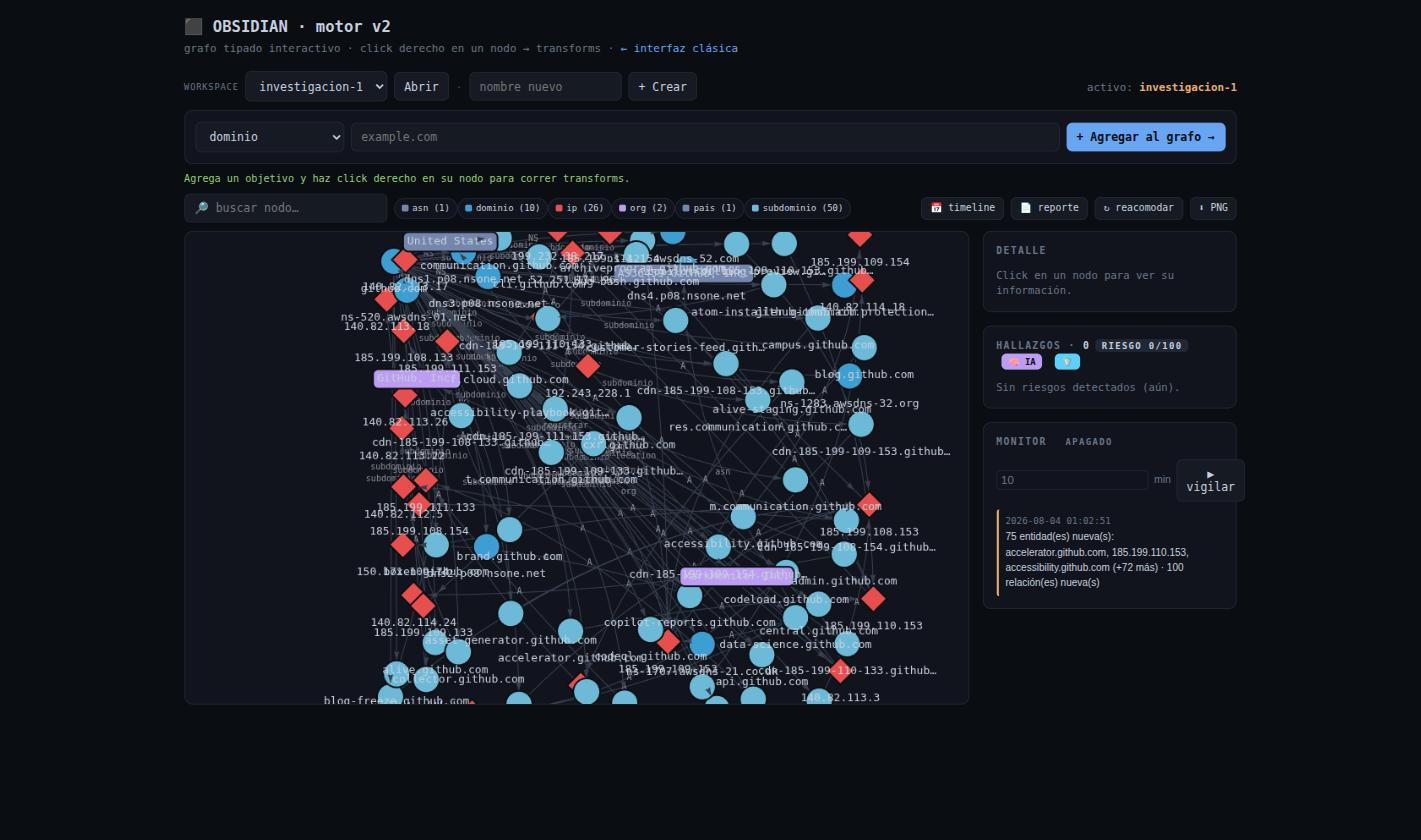
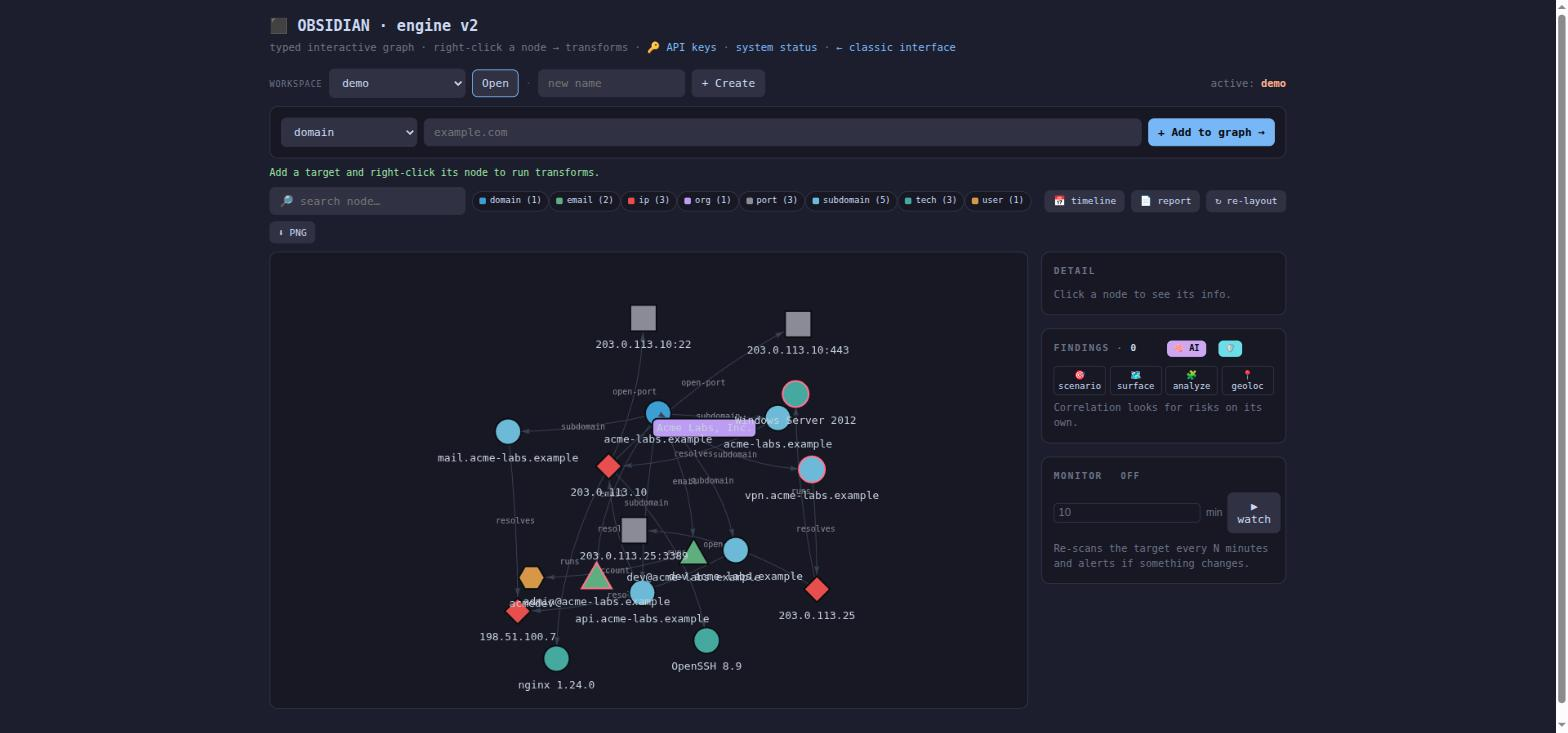
English: fix remaining UI strings in v2 graph; refresh screenshots to English version

diff --git a/web/v2.html b/web/v2.html
@@ -157,7 +157,7 @@
       </div>
       <div class="card">
         <h2>Findings · <span id="nHall">0</span><span class="score" id="scoreBadge"></span>
-          <button id="btnIA" class="btnia">🧠 IA</button>
+          <button id="btnIA" class="btnia">🧠 AI</button>
           <button id="btnEscudo" class="btnia" style="background:var(--cyan)">🛡</button></h2>
         <div id="iaResumen"></div>
         <div class="iabtns">
@@ -171,7 +171,7 @@
       <div class="card">
         <h2>Monitor <span id="monEstado" class="score">off</span></h2>
         <div class="monctl">
-          <input id="monIntervalo" type="number" min="1" value="10" title="minutos"> min
+          <input id="monIntervalo" type="number" min="1" value="10" title="minutes"> min
           <button id="btnMonitor">▶ watch</button>
         </div>
         <div id="monInfo" class="vacio">Re-scans the target every N minutes and alerts if something changes.</div>
@@ -318,7 +318,7 @@ async function cargarModulos(type, value, cont){
   lista.forEach(t=>{
     const b=el('button','modbtn');
     b.innerHTML=esc(t.name)+(t.requires_key?' <span class="key">⚿</span>':'');
-    b.title=(t.description||'')+(t.requires_key?' · necesita API key (🔑)':''); b.onclick=()=>correr(type, value, t.name, t.requires_key);
+    b.title=(t.description||'')+(t.requires_key?' · needs an API key':''); b.onclick=()=>correr(type, value, t.name, t.requires_key);
     grid.appendChild(b);
   });
   cont.appendChild(grid);
@@ -419,7 +419,7 @@ async function analizarIA(){
   try{ const d=await(await fetch('/api/v2/findings/ia',{method:'POST'})).json();
     out.innerHTML='<div class="iaresumen">'+(d.resumen||d.error||'')+'</div>'; }
   catch(e){ out.textContent='Error: '+e.message; }
-  btn.disabled=false; btn.textContent='🧠 IA';
+  btn.disabled=false; btn.textContent='🧠 AI';
 }
 async function segundoEscudo(){
   const btn=$('#btnEscudo'),out=$('#iaResumen'); btn.disabled=true; btn.textContent='…';
@@ -440,8 +440,8 @@ async function cargarWorkspaces(){
 }
 async function abrirWs(){ const n=$('#wsSel').value; if(!n)return;
   await fetch('/api/v2/workspaces/open',{method:'POST',headers:{'Content-Type':'application/json'},body:JSON.stringify({name:n})});
-  setStatus('workspace abierto: '+n); await cargarWorkspaces(); await pintarGrafo(); }
-async function crearWs(){ const n=$('#wsNuevo').value.trim(); if(!n){setStatus('escribe un name','err');return;}
+  setStatus('workspace opened: '+n); await cargarWorkspaces(); await pintarGrafo(); }
+async function crearWs(){ const n=$('#wsNuevo').value.trim(); if(!n){setStatus('enter a name','err');return;}
   const r=await fetch('/api/v2/workspaces',{method:'POST',headers:{'Content-Type':'application/json'},body:JSON.stringify({name:n})});
   const d=await r.json(); if(!r.ok){setStatus('error: '+(d.error||r.status),'err');return;}
   $('#wsNuevo').value=''; setStatus('workspace created: '+d.active); await cargarWorkspaces(); await pintarGrafo(); }
@@ -493,10 +493,10 @@ async function panelKeys(){
   SERVICIOS_KEY.forEach(([s,hint])=>{
     const row=el('div','krow'); const ok=conf.has(s);
     const lab=el('span','ks'); lab.innerHTML=esc(s)+(ok?' <b style="color:var(--green)">●</b>':''); row.appendChild(lab);
-    const inp=el('input'); inp.type='password'; inp.placeholder=ok?'(configurada) — nueva para reemplazar':hint; row.appendChild(inp);
-    const g=el('button'); g.textContent='guardar'; g.onclick=async()=>{ if(!inp.value)return;
+    const inp=el('input'); inp.type='password'; inp.placeholder=ok?'(configured) — enter a new one to replace':hint; row.appendChild(inp);
+    const g=el('button'); g.textContent='save'; g.onclick=async()=>{ if(!inp.value)return;
       await fetch('/api/v2/keys',{method:'POST',headers:{'Content-Type':'application/json'},body:JSON.stringify({service:s,value:inp.value})});
-      inp.value=''; setStatus('🔑 '+s+' guardada'); panelKeys(); }; row.appendChild(g);
+      inp.value=''; setStatus('🔑 '+s+' saved'); panelKeys(); }; row.appendChild(g);
     const st=el('span','kst');
     if(OBTENER[s]){ const o=el('a'); o.textContent='get'; o.href=OBTENER[s]; o.target='_blank'; o.style.cssText='color:var(--muted);font-size:.68rem;text-decoration:underline'; row.appendChild(o); }
     const p=el('button'); p.textContent='probar'; p.onclick=async()=>{ st.textContent='testing '+s+'…'; st.style.color='var(--muted)';
